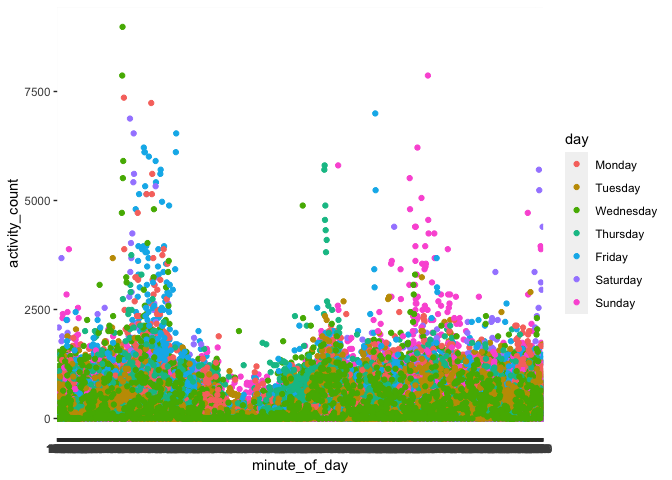
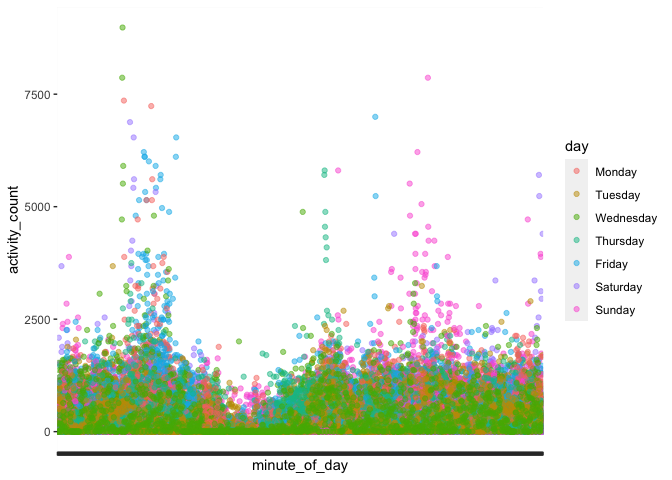
almost done with problem 2

diff --git a/p8105_hw3_td2749.md b/p8105_hw3_td2749.md
@@ -5,24 +5,12 @@ Tvisha R. Devavarapu
 
 ``` r
 library(tidyverse)
-```
-
-    ## ── Attaching packages ─────────────────────────────────────── tidyverse 1.3.2 ──
-    ## ✔ ggplot2 3.3.6      ✔ purrr   0.3.4 
-    ## ✔ tibble  3.1.8      ✔ dplyr   1.0.10
-    ## ✔ tidyr   1.2.0      ✔ stringr 1.4.1 
-    ## ✔ readr   2.1.2      ✔ forcats 0.5.2 
-    ## ── Conflicts ────────────────────────────────────────── tidyverse_conflicts() ──
-    ## ✖ dplyr::filter() masks stats::filter()
-    ## ✖ dplyr::lag()    masks stats::lag()
-
-``` r
 library(ggplot2)
 ```
 
 ## Problem 2: Accelerometer Data
 
-*Task 2.1*: Load, tidy, and otherwise wrangle the data. Your final
+**Task 2.1**: Load, tidy, and otherwise wrangle the data. Your final
 dataset should include all originally observed variables and values;
 have useful variable names; include a weekday vs weekend variable; and
 encode data with reasonable variable classes. Describe the resulting
@@ -53,11 +41,19 @@ accel_data =
     ## ℹ Use `spec()` to retrieve the full column specification for this data.
     ## ℹ Specify the column types or set `show_col_types = FALSE` to quiet this message.
 
-*Description*: Without losing any of the originally observed variables
+**Description**: Without losing any of the originally observed variables
 and values, the resultant `accel_data` df contains 35 unique rows of
-observations
+observations. Each row represents a day (1-35 days). The final df has
+1445 columns of variables: `week` consists of values from 1-5 depicting
+the respective week of observation, `day_id` and `day` identify the
+unique days of observation (all 7 days of a week \* 5 weeks = 35 days =
+35 rows), `day_type` indicates whether a given day is a weekend or a
+weekday, `total_activity_count` represents the sums across each minute’s
+activity counts over a given day (sum of 1140 (24\*60) values), and
+`activity_1` to `activity_1440` represent the activity counts across
+each minute.
 
-*Task 2.2*: Traditional analyses of accelerometer data focus on the
+**Task 2.2**: Traditional analyses of accelerometer data focus on the
 total activity over the day. Using your tidied dataset, aggregate across
 minutes to create a total activity variable for each day, and create a
 table showing these totals. Are any trends apparent?
@@ -74,15 +70,33 @@ total_activity_table =
     ## `.groups` argument.
 
 ``` r
+total_activity_table
+```
+
+    ## # A tibble: 5 × 8
+    ## # Groups:   week [5]
+    ##    week  Monday Tuesday Wednesday Thursday  Friday Saturday Sunday
+    ##   <dbl>   <dbl>   <dbl>     <dbl>    <dbl>   <dbl>    <dbl>  <dbl>
+    ## 1     1  78828. 307094.   340115.  355924. 480543.   376254 631105
+    ## 2     2 295431  423245    440962   474048  568839    607175 422018
+    ## 3     3 685910  381507    468869   371230  467420    382928 467052
+    ## 4     4 409450  319568    434460   340291  154049      1440 260617
+    ## 5     5 389080  367824    445366   549658  620860      1440 138421
+
+``` r
 accel_data %>%
   ggplot(aes(x = day, y = total_activity_count, color = week, group = week)) +
   geom_point() +
-  geom_line()
+  geom_line() +
+  scale_colour_gradientn(colours = c("#88CCEE", "#CC6677", "#DDCC77", "#117733", "#332288")) +
+  ggtitle("Total Activity Count Vs. Day: Across 5 Weeks") +
+  xlab("Day") + ylab("Total Activity Count") +
+  theme(plot.title = element_text(hjust = 0.5))
 ```
 
 ![](p8105_hw3_td2749_files/figure-gfm/Total%20Activity%20-%20Table%20and%20Graph-1.png)<!-- -->
 
-*Task 2.3*: Accelerometer data allows the inspection activity over the
+**Task 2.3**: Accelerometer data allows the inspection activity over the
 course of the day. Make a single-panel plot that shows the 24-hour
 activity time courses for each day and use color to indicate day of the
 week. Describe in words any patterns or conclusions you can make based
@@ -93,7 +107,8 @@ accel_data %>%
   pivot_longer(activity_1:activity_1440, names_to = "minute_of_day", 
                names_prefix = "activity_", values_to = "activity_count") %>% 
   ggplot(aes(x = minute_of_day, y = activity_count, color = day)) +
-  geom_point() 
+  geom_point(alpha = 0.5) +
+  theme(axis.text.x = element_blank())
 ```
 
 ![](p8105_hw3_td2749_files/figure-gfm/24%20Hour%20Plot-1.png)<!-- -->
